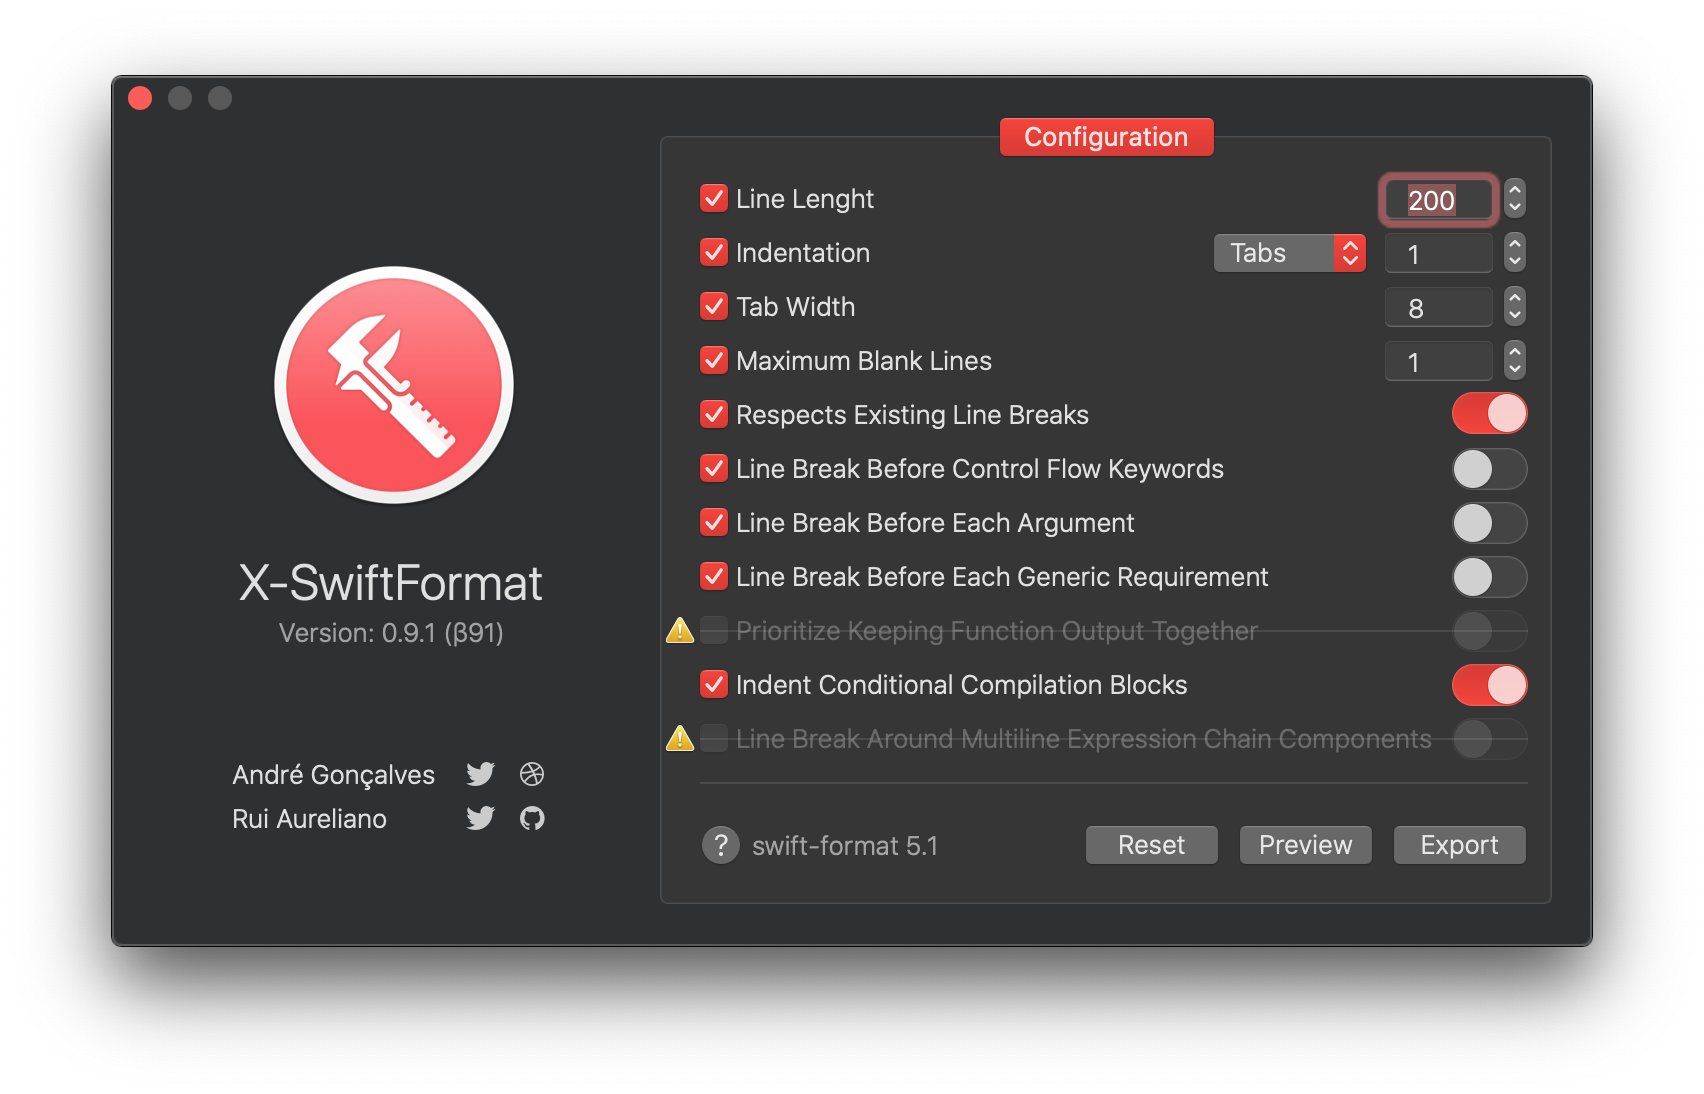
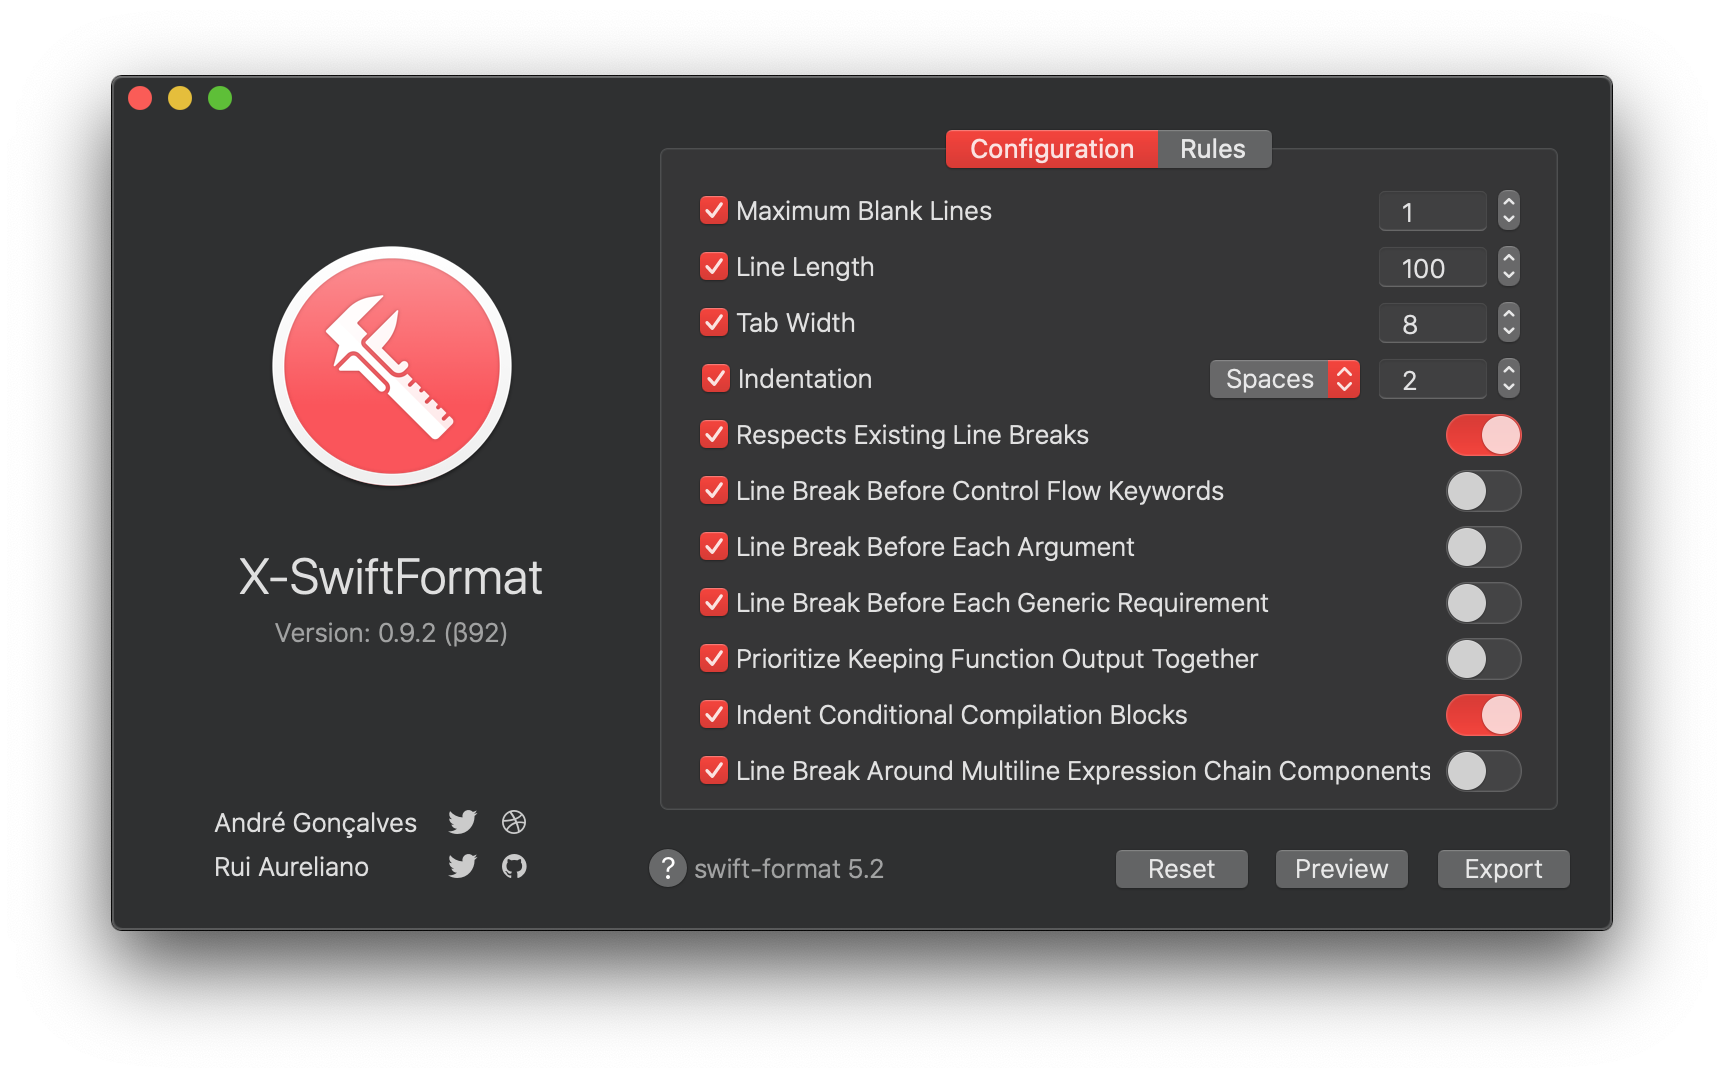
V0.92 (92)

diff --git a/README.md b/README.md
@@ -1,7 +1,8 @@
-# 🛠 X-SwiftFormat [![](https://img.shields.io/badge/license-MIT-eb3d33.svg)](https://raw.githubusercontent.com/ruiaureliano/X-SwiftFormat/master/LICENSE) ![](https://img.shields.io/badge/swift-5.1-eb3d33.svg)
+# 🛠 X-SwiftFormat [![](https://img.shields.io/badge/license-MIT-eb3d33.svg)](https://raw.githubusercontent.com/ruiaureliano/X-SwiftFormat/master/LICENSE) ![](https://img.shields.io/badge/swift-5.2-eb3d33.svg)
+
 ![](./assets/xsf_header.png)
 
-### 🔗 Download [X-SwiftFormat 0.9.1 βeta](https://github.com/ruiaureliano/X-SwiftFormat/releases/download/β91/x-swiftformat_0.9.1_91.zip)
+### 🔗 Download [X-SwiftFormat 0.9.2 (β92)](https://github.com/ruiaureliano/X-SwiftFormat/releases/download/β92/x-swiftformat_0.9.2_92.zip)
 
 ---
 
@@ -40,10 +41,10 @@ Open **System Preferences**, click on **Keyboard** and switch to the **Shortcuts
 # Installing [Apple Swift Format](https://github.com/apple/swift-format) (XCode or Mint)
 
 ## a) Using XCode
-if you are using **Xcode 11.0 (Swift 5.1)**, you can check out and build swift-format using the following commands:
+if you are using **Xcode 11.0**, you can check out and build swift-format using the following commands:
 
 ```
-git clone -b swift-5.1-branch https://github.com/apple/swift-format.git
+git clone -b swift-5.2-branch https://github.com/apple/swift-format.git
 cd swift-format
 swift build
 ```
@@ -59,15 +60,15 @@ If you dint have **Homebrew**, install [here](https://brew.sh)
 
 ```
 brew install mint
-mint install apple/swift-format@swift-5.1-branch
+mint install apple/swift-format@swift-5.2-branch
 ```
 You should see this
 ```
-🌱 Cloning swift-format swift-5.1-branch
+🌱 Cloning swift-format swift-5.2-branch
 🌱 Resolving package
 🌱 Building package
-🌱 Installed swift-format swift-5.1-branch
-🌱 Linked swift-format swift-5.1-branch to /usr/local/bin
+🌱 Installed swift-format swift-5.2-branch
+🌱 Linked swift-format swift-5.2-branch to /usr/local/bin
 ```
 👍👍👍
 

diff --git a/DOCS.md b/DOCS.md
@@ -1,0 +1,7 @@
+# 🛠 X-SwiftFormat 
+
+---
+
+I'm [Rui Aureliano](http://ruiaureliano.com), iOS and macOS Engineer at [Olá Brothers](https://theolabrothers.com). We make [Sip](https://sipapp.io) 🤓
+
+[Linkedin](https://www.linkedin.com/in/ruiaureliano) | [AngelList](https://angel.co/ruiaureliano) | [Twitter](https://twitter.com/ruiaureliano) | [Github](https://github.com/ruiaureliano) | [Medium](https://medium.com/@ruiaureliano) | [Stackoverflow](https://stackoverflow.com/users/881095/ruiaureliano)
